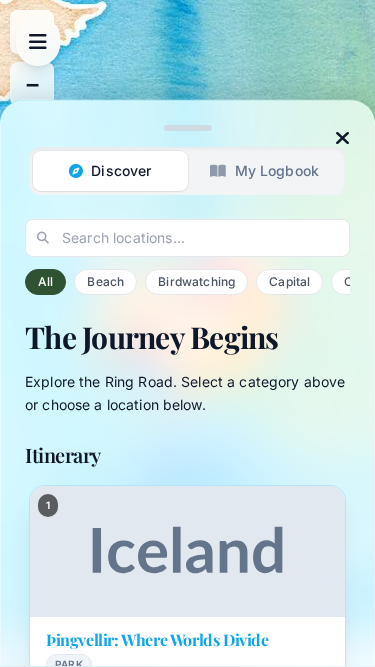
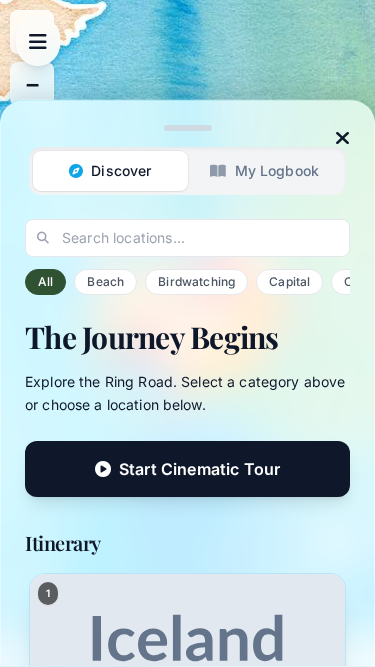
feat: enrich UX with cinematic tour, confetti, and ken burns effect
Added a new 'Cinematic Tour' mode that automatically flies the user
through the POIs. Integrated a confetti animation that triggers upon
reaching favoriting milestones. Replaced static hover image scaling
with a continuous 'Ken Burns' style pan and zoom effect.

Changed region(s): [[0.0587, 0.6597, 0.9387, 1.0]]

diff --git a/app.js b/app.js
@@ -6,6 +6,58 @@ let favorites = new Set();
 let activeCategory = 'All';
 let searchTerm = '';
 
+// --- CINEMATIC TOUR STATE ---
+let tourInterval = null;
+let tourIndex = 0;
+let isTourRunning = false;
+
+// --- CINEMATIC TOUR LOGIC ---
+function startCinematicTour() {
+    if (globalPOIs.length === 0) return;
+    isTourRunning = true;
+    tourIndex = 0;
+
+    // UI feedback
+    const tourBtn = document.getElementById('tour-btn');
+    if (tourBtn) {
+        tourBtn.innerHTML = '<i class="fas fa-stop-circle mr-2"></i> Stop Tour';
+        tourBtn.classList.replace('bg-brand-deep', 'bg-brand-lava');
+        tourBtn.onclick = stopCinematicTour;
+    }
+
+    playNextTourStop();
+    // 8 seconds per stop for a relaxed pace
+    tourInterval = setInterval(playNextTourStop, 8000);
+}
+
+function playNextTourStop() {
+    if (!isTourRunning || tourIndex >= globalPOIs.length) {
+        stopCinematicTour();
+        return;
+    }
+
+    const poi = globalPOIs[tourIndex];
+    navigateToPOI(poi);
+
+    tourIndex++;
+}
+
+function stopCinematicTour() {
+    isTourRunning = false;
+    if (tourInterval) {
+        clearInterval(tourInterval);
+        tourInterval = null;
+    }
+
+    // UI feedback reset
+    const tourBtn = document.getElementById('tour-btn');
+    if (tourBtn) {
+        tourBtn.innerHTML = '<i class="fas fa-play-circle mr-2"></i> Start Cinematic Tour';
+        tourBtn.classList.replace('bg-brand-lava', 'bg-brand-deep');
+        tourBtn.onclick = startCinematicTour;
+    }
+}
+
 // --- LOGIC & HELPERS ---
 function loadFavorites() {
     try {
@@ -26,13 +78,30 @@ function saveFavorites() {
     }
 }
 
+function triggerConfetti() {
+    if (typeof confetti === 'function') {
+        confetti({
+            particleCount: 100,
+            spread: 70,
+            origin: { y: 0.6 },
+            colors: ['#2F5233', '#0EA5E9', '#C0392B']
+        });
+    }
+}
+
 function toggleFavorite(id) {
+    let justAdded = false;
     if (favorites.has(id)) {
         favorites.delete(id);
     } else {
         favorites.add(id);
+        justAdded = true;
     }
     saveFavorites();
+
+    if (justAdded && (favorites.size === 3 || favorites.size === 7)) {
+        triggerConfetti();
+    }
 }
 
 function filterPOIs() {
@@ -183,6 +252,25 @@ function createInitialSidebarContent() {
 
         poiContent.appendChild(heading);
         poiContent.appendChild(p);
+
+        // Cinematic Tour Button
+        const tourBtnContainer = document.createElement('div');
+        tourBtnContainer.className = 'mb-8';
+        const tourBtn = document.createElement('button');
+        tourBtn.id = 'tour-btn';
+        tourBtn.className = 'w-full bg-brand-deep text-white font-bold text-center py-4 rounded-xl shadow-lg hover:shadow-xl hover:-translate-y-1 transition-all flex items-center justify-center';
+
+        if (isTourRunning) {
+            tourBtn.innerHTML = '<i class="fas fa-stop-circle mr-2"></i> Stop Tour';
+            tourBtn.classList.replace('bg-brand-deep', 'bg-brand-lava');
+            tourBtn.onclick = stopCinematicTour;
+        } else {
+            tourBtn.innerHTML = '<i class="fas fa-play-circle mr-2"></i> Start Cinematic Tour';
+            tourBtn.onclick = startCinematicTour;
+        }
+
+        tourBtnContainer.appendChild(tourBtn);
+        poiContent.appendChild(tourBtnContainer);
 
         // Filtered List
         const filteredPOIs = filterPOIs();
@@ -371,7 +459,7 @@ function updateSidebar(poi) {
         const image = document.createElement('img');
         image.src = poi.image;
         image.alt = poi.name;
-        image.className = "w-full h-full object-cover transition-transform duration-1000 group-hover:scale-105";
+        image.className = "w-full h-full object-cover ken-burns-image";
         image.onerror = function() {
             this.onerror=null;
             this.src='https://placehold.co/400x300/e2e8f0/64748b?text=Iceland';

diff --git a/index.html b/index.html
@@ -8,6 +8,7 @@
     <link rel="stylesheet" href="https://unpkg.com/leaflet@1.9.4/dist/leaflet.css" integrity="sha256-p4NxAoJBhIIN+hmNHrzRCf9tD/miZyoHS5obTRR9BMY=" crossorigin=""/>
     <script src="https://unpkg.com/leaflet@1.9.4/dist/leaflet.js" integrity="sha256-20nQCchB9co0qIjJZRGuk2/Z9VM+kNiyxNV1lvTlZBo=" crossorigin=""></script>
     <script src="https://unpkg.com/leaflet.polyline.snakeanim@0.2.0/L.Polyline.SnakeAnim.js"></script>
+    <script src="https://cdn.jsdelivr.net/npm/canvas-confetti@1.9.3/dist/confetti.browser.min.js"></script>
     <link rel="stylesheet" href="https://cdnjs.cloudflare.com/ajax/libs/font-awesome/6.5.1/css/all.min.css" integrity="sha384-t1nt8BQoYMLFN5p42tRAtuAAFQaCQODekUVeKKZrEnEyp4H2R0RHFz0KWpmj7i8g" crossorigin="anonymous">
     <link href="https://fonts.googleapis.com/css2?family=Inter:wght@400;500;600&family=Playfair+Display:wght@400;600;700&display=swap" rel="stylesheet">
     <style>
@@ -138,6 +139,14 @@
         }
 
         /* Animations */
+        @keyframes ken-burns {
+            0% { transform: scale(1); }
+            100% { transform: scale(1.15); }
+        }
+        .ken-burns-image {
+            animation: ken-burns 20s ease-out forwards;
+        }
+
         @keyframes fadeIn {
             from { opacity: 0; transform: translateY(10px); }
             to { opacity: 1; transform: translateY(0); }
